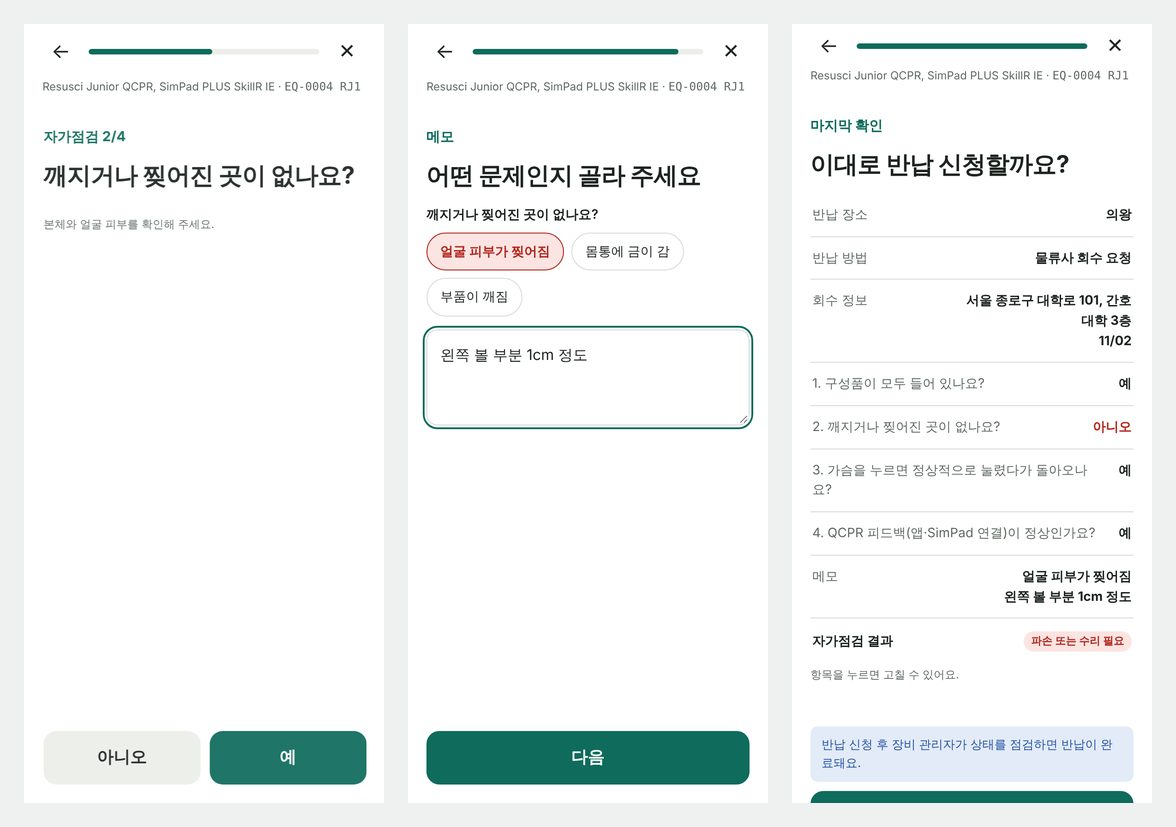
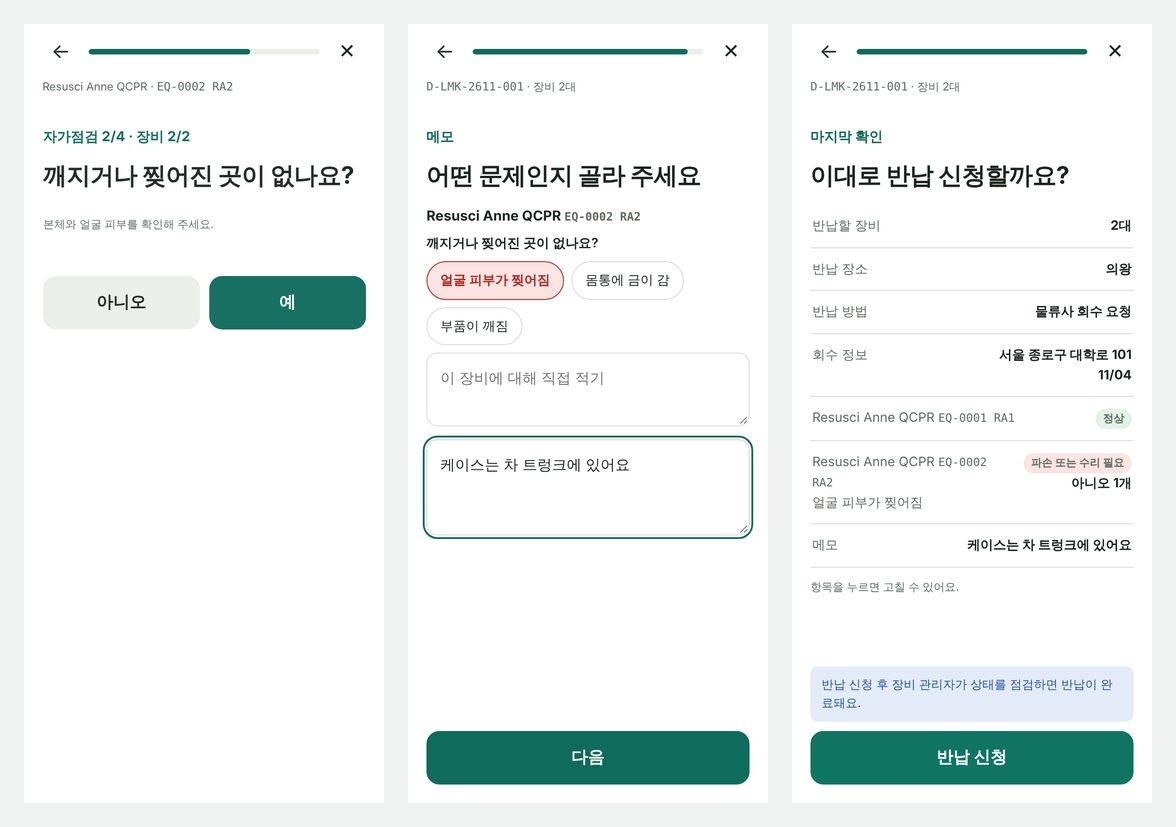
v0.045 사용 설명서 그림을 현재 화면으로 교체
Claude-Session: https://claude.ai/code/session_015cNYVCtAQfG5zreiM9AgYM

diff --git a/manual/index.html b/manual/index.html
@@ -111,13 +111,14 @@ ol,ul{padding-left:22px} li{margin:4px 0}
 <li>상태 표시: <strong>사용 가능</strong> · <strong>대여 중</strong> · <strong>점검 중</strong> · <strong>수리 중</strong></li>
 <li>사용 가능 장비도 다른 날짜에 예약이 있을 수 있어요. 상세 창의 <strong>예약 일정</strong>을 확인해 주세요.</li>
 </ul>
-<p><strong>QR 라벨로 찾기</strong></p>
+<p><strong>QR 라벨로 찾기</strong> (라벨은 부착 예정이에요)</p>
 <p>장비에 붙은 데모콕 QR 라벨을 찍으면 그 장비 화면이 바로 열려요. 거기서 신청하거나, 내가 빌린 장비면 [<strong>반납 신청</strong>]을 눌러 주세요.</p>
 <ol>
 <li>[<strong>현황</strong>]이나 [<strong>장비</strong>] 화면에서 [<strong>QR 찍기</strong>]를 눌러 주세요.</li>
 <li>처음 한 번은 카메라 사용을 허용해 주세요.</li>
 <li>라벨을 화면의 네모 안에 맞추면 장비 화면이 열려요.</li>
 </ol>
+<figure><img src="img/qr.jpg" alt="QR 찍기 화면과 찍은 뒤 열린 장비 화면" loading="lazy"><figcaption>QR 찍기 화면과 찍은 뒤 열린 장비 화면</figcaption></figure>
 <blockquote>
 <p>폰 기본 카메라나 카카오톡으로 찍어도 열려요. 하지만 그러면 브라우저에서 따로 로그인해야 하고, 그 브라우저도 로그인 기기 1대로 셈돼요(한 계정은 2대까지). 앱 안의 [<strong>QR 찍기</strong>]를 쓰시면 편해요.</p>
 </blockquote>
@@ -175,7 +176,7 @@ ol,ul{padding-left:22px} li{margin:4px 0}
 </tbody>
 </table></div>
 <p>줄을 누르면 <strong>세부 정보</strong> 창이 열려요. 기간, 요청자, 목적, 출고·배송, 반납 내용을 한눈에 볼 수 있고, 아래 버튼으로 바로 처리할 수 있어요.</p>
-<figure><img src="img/mine.jpg" alt="내 신청 목록과 세부 정보 창" loading="lazy"><figcaption>내 신청 목록과 세부 정보 창</figcaption></figure>
+<figure><img src="img/mine.jpg" alt="내 신청 목록, 세부 정보 창, 예약 수정 화면" loading="lazy"><figcaption>내 신청 목록, 세부 정보 창, 예약 수정 화면</figcaption></figure>
 <p><strong>연장</strong></p>
 <ul>
 <li>[<strong>연장</strong>]을 누르고 새 반납 예정일을 골라 주세요.</li>
@@ -213,8 +214,8 @@ ol,ul{padding-left:22px} li{margin:4px 0}
 <li><strong>메모</strong> – [<strong>아니오</strong>]를 고른 질문이 있으면 어떤 문제인지 보기에서 골라 주세요. 보기에 없으면 아래 칸에 직접 적어 주세요.</li>
 <li><strong>확인</strong> – 고른 내용을 한 번 더 보여줘요. 항목을 누르면 바로 고칠 수 있어요. [<strong>반납 신청</strong>]을 눌러 마무리해 주세요.</li>
 </ol>
-<figure><img src="img/ret1.jpg" alt="반납 신청 1~3단계: 장소, 방법, 회수 정보" loading="lazy"><figcaption>반납 신청 1~3단계: 장소, 방법, 회수 정보</figcaption></figure>
-<figure><img src="img/ret2.jpg" alt="반납 신청 4~6단계: 자가점검, 메모, 확인" loading="lazy"><figcaption>반납 신청 4~6단계: 자가점검, 메모, 확인</figcaption></figure>
+<figure><img src="img/ret1.jpg" alt="반납 신청: 반납할 장비 고르기, 장소, 방법, 회수 정보" loading="lazy"><figcaption>반납 신청: 반납할 장비 고르기, 장소, 방법, 회수 정보</figcaption></figure>
+<figure><img src="img/ret2.jpg" alt="반납 신청: 자가점검, 메모, 마지막 확인" loading="lazy"><figcaption>반납 신청: 자가점검, 메모, 마지막 확인</figcaption></figure>
 <p><strong>분류별 자가점검 질문</strong></p>
 <div class="tw"><table>
 <thead>

diff --git a/index.html b/index.html
@@ -337,6 +337,9 @@ const SUPABASE_URL = "https://srlbifddjrqjdzqtxesh.supabase.co";
 const SUPABASE_KEY = "sb_publishable_W5dt6MuskUKETmLtqdxMUg_yYuAnIgy";
 /* 버전 기록: 고칠 때마다 맨 위에 한 줄 추가한다. 화면의 버전 번호는 첫 항목에서 자동으로 읽는다. */
 const CHANGELOG = [
+  { v: "v0.045", date: "2026-11-02", items: [
+    "사용 설명서 그림을 지금 화면(데모콕)으로 다시 찍음. 묶음 반납, 예약 수정, QR 찍기 화면 추가",
+  ] },
   { v: "v0.044", date: "2026-11-02", items: [
     "사용 설명서를 앱 주소 아래(manual/)에 올림. Claude 로그인 없이 누구나 열 수 있음",
   ] },

diff --git a/manual/manual.md b/manual/manual.md
@@ -53,13 +53,15 @@
 - 상태 표시: **사용 가능** · **대여 중** · **점검 중** · **수리 중**
 - 사용 가능 장비도 다른 날짜에 예약이 있을 수 있어요. 상세 창의 **예약 일정**을 확인해 주세요.
 
-**QR 라벨로 찾기**
+**QR 라벨로 찾기** (라벨은 부착 예정이에요)
 
 장비에 붙은 데모콕 QR 라벨을 찍으면 그 장비 화면이 바로 열려요. 거기서 신청하거나, 내가 빌린 장비면 [**반납 신청**]을 눌러 주세요.
 
 1. [**현황**]이나 [**장비**] 화면에서 [**QR 찍기**]를 눌러 주세요.
 2. 처음 한 번은 카메라 사용을 허용해 주세요.
 3. 라벨을 화면의 네모 안에 맞추면 장비 화면이 열려요.
+
+![QR 찍기 화면과 찍은 뒤 열린 장비 화면](img/qr.jpg)
 
 > 폰 기본 카메라나 카카오톡으로 찍어도 열려요. 하지만 그러면 브라우저에서 따로 로그인해야 하고, 그 브라우저도 로그인 기기 1대로 셈돼요(한 계정은 2대까지). 앱 안의 [**QR 찍기**]를 쓰시면 편해요.
 
@@ -100,7 +102,7 @@
 
 줄을 누르면 **세부 정보** 창이 열려요. 기간, 요청자, 목적, 출고·배송, 반납 내용을 한눈에 볼 수 있고, 아래 버튼으로 바로 처리할 수 있어요.
 
-![내 신청 목록과 세부 정보 창](img/mine.jpg)
+![내 신청 목록, 세부 정보 창, 예약 수정 화면](img/mine.jpg)
 
 **연장**
 
@@ -139,9 +141,9 @@
 5. **메모** – [**아니오**]를 고른 질문이 있으면 어떤 문제인지 보기에서 골라 주세요. 보기에 없으면 아래 칸에 직접 적어 주세요.
 6. **확인** – 고른 내용을 한 번 더 보여줘요. 항목을 누르면 바로 고칠 수 있어요. [**반납 신청**]을 눌러 마무리해 주세요.
 
-![반납 신청 1~3단계: 장소, 방법, 회수 정보](img/ret1.jpg)
+![반납 신청: 반납할 장비 고르기, 장소, 방법, 회수 정보](img/ret1.jpg)
 
-![반납 신청 4~6단계: 자가점검, 메모, 확인](img/ret2.jpg)
+![반납 신청: 자가점검, 메모, 마지막 확인](img/ret2.jpg)
 
 **분류별 자가점검 질문**
 

diff --git a/CHANGELOG.md b/CHANGELOG.md
@@ -4,6 +4,7 @@
 
 | 버전 | 날짜 | DB 변경 |
 | --- | --- | --- |
+| v0.045 | 2026-11-02 | 없음 |
 | v0.044 | 2026-11-02 | 없음 |
 | v0.043 | 2026-11-02 | 없음 |
 | v0.042 | 2026-11-02 | `016_session_limit_login_log.sql` |
@@ -48,6 +49,10 @@
 | v0.003 | 2026-10-28 | `001_return_form.sql` |
 | v0.002 | 2026-10-28 | 없음 |
 | v0.001 | 2026-10-27 | `schema.sql` |
+
+## v0.045 · 2026-11-02
+
+- 사용 설명서 그림을 지금 화면(데모콕)으로 다시 찍음. 묶음 반납, 예약 수정, QR 찍기 화면 추가
 
 ## v0.044 · 2026-11-02
 
